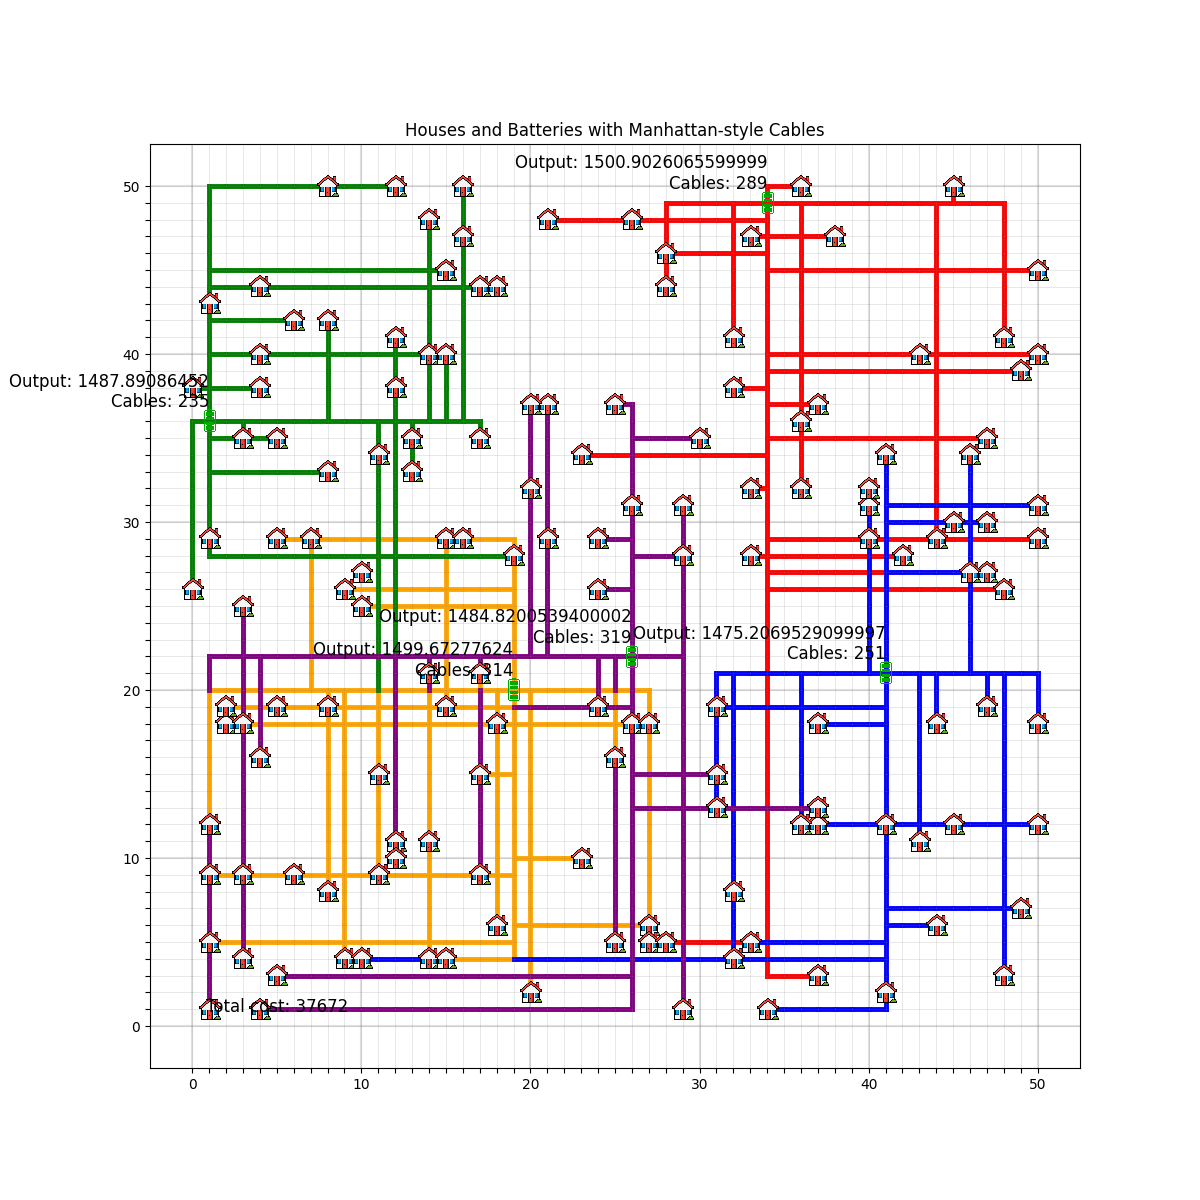
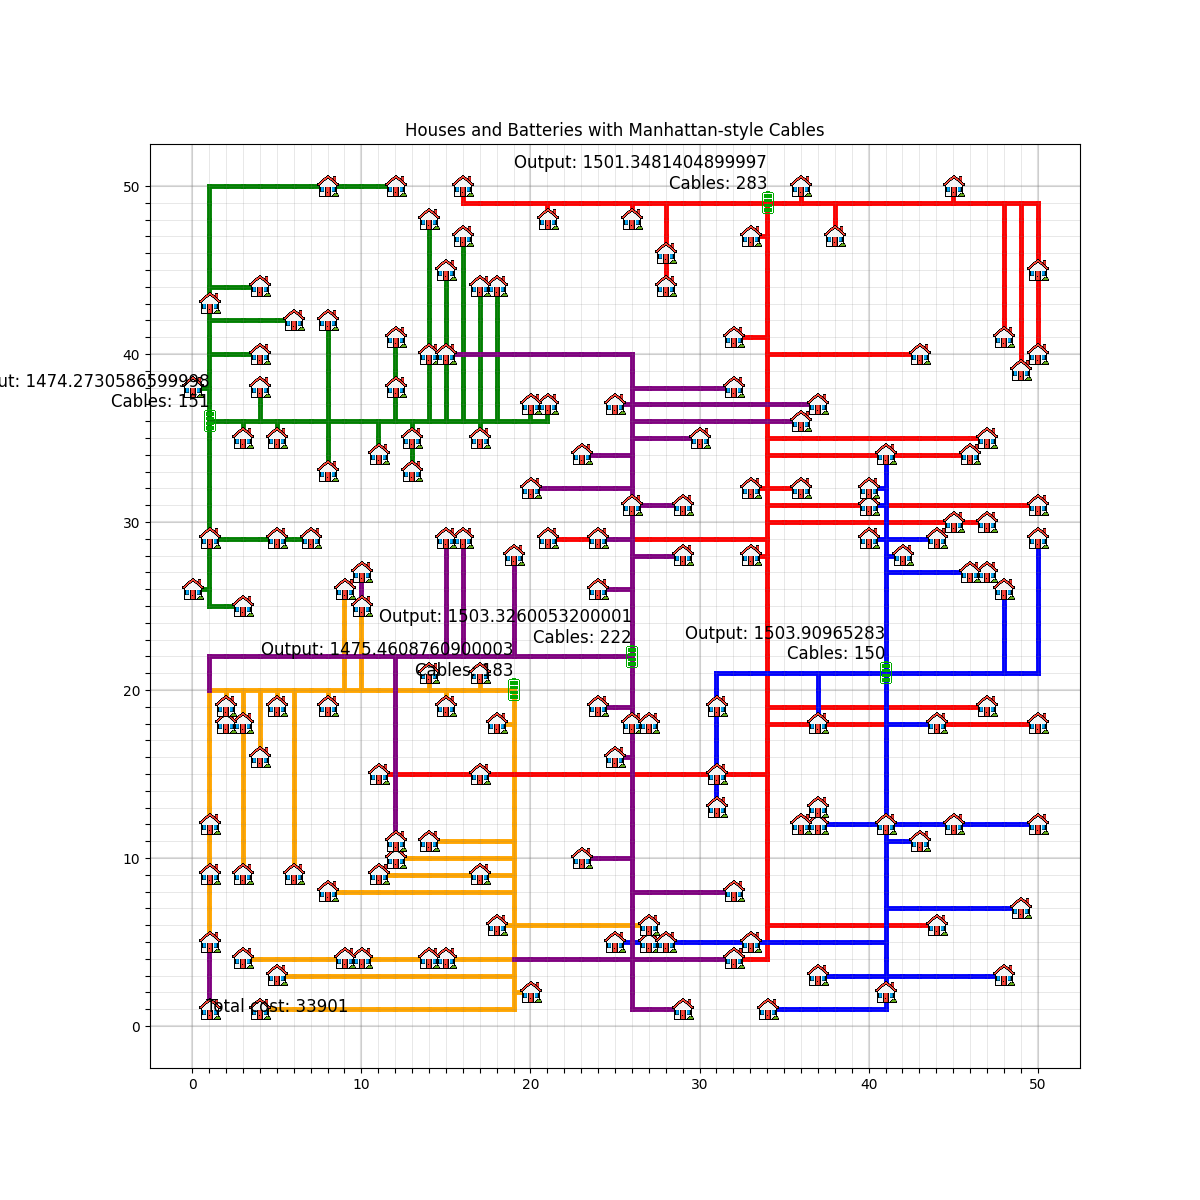
Changes and new main.py

Changed region(s): [[0.0, 0.1233, 0.8942, 0.8633], [0.185, 0.2158, 0.37, 0.2467], [0.2467, 0.2775, 0.3392, 0.3083]]

diff --git a/code/experiments/experiment1.py b/code/experiments/experiment1.py
@@ -10,24 +10,27 @@ from code.algorithm.nearest_object_y import nearest_object_y
 from code.algorithm.nearest_object_rand import nearest_object_rand
 
 
-def experiment(houses_file, batteries_file, iterations=100,algorithms=[RandomAlgorithm, nearest_battery, nearest_object_x, nearest_object_y, nearest_object_rand, dijckstra]):
+def find_lowest_cost_experiment(houses_file, batteries_file, iterations=100,algorithms=[dijckstra]):
     """
     the experiment function runs the simulation for each algorithm and saves the results in a csv file and plots a histogram of the resultings costs
     the input is the filepaths of the houses and batteries, the amount of iterations and the algorithms to be tested
     """
-    i = 1
+    count = 1
 
     save_directory = "data/simulation_results"
+
     data_to_plot = []
+
+    # If the directory does not exist, create it
     if not os.path.exists(save_directory):
         os.makedirs(save_directory)
 
-    # Create instances for each algorith
+    # Create instances for each algorithm
     for i in range(len(algorithms)):
 
         alg = algorithms[i]
 
-        print(f"{i}/{len(algorithms)}: Running {alg.__name__} Simulation")
+        print(f"{count}/{len(algorithms)}: Running {alg.__name__} Simulation")
         
         # Create instances for each algorithm
         algorithm_instance = Simulate_Algorithm(alg, iterations, houses_file, batteries_file)
@@ -38,12 +41,11 @@ def experiment(houses_file, batteries_file, iterations=100,algorithms=[RandomAlg
         print("")
 
         algorithm_instance.save_lowest_cost_house_order_to_csv(csv_filename)
-        i += 1
+        count += 1
 
         # Convert the sets of costs to lists
         sim_alg_list = list(sim_alg)
         data_to_plot.append(sim_alg_list)
-
 
     # Find the global minimum and maximum to set the bins
     min_value = min(map(min, data_to_plot))
@@ -62,8 +64,8 @@ def experiment(houses_file, batteries_file, iterations=100,algorithms=[RandomAlg
     colors = plt.cm.tab10(np.linspace(0, 1, 10))
 
     # Plot each algorithm's histogram
-    labels = [str(alg) for alg in algorithms]
-    
+    labels = [str(alg.__name__) for alg in algorithms]
+
     for i, (data, label) in enumerate(zip(data_to_plot, labels)):
         plt.hist(data, bins=bins, alpha=0.5, color=colors[i], label=label)
 

diff --git a/main.py b/main.py
@@ -15,7 +15,7 @@ from code.helpers.visualize import visualize
 from code.algorithm.nearest_battery import nearest_battery
 from code.algorithm.dijckstra import dijckstra
 from code.experiments.experiment2 import experiment2
-from code.experiments.experiment1 import experiment
+from code.experiments.experiment1 import find_lowest_cost_experiment
 
 
 #Creators: Team YakuzAI
@@ -33,7 +33,7 @@ def main():
         print(f'District {i+1}')
 
         # set up experiment To test all algorithms
-        experiment(districts_houses[i], districts_batteries[i], iterations, algorithms=[dijckstra, nearest_battery])    
+        find_lowest_cost_experiment(districts_houses[i], districts_batteries[i], iterations, algorithms=[dijckstra])    
 
 
         #experiment2(districts_houses[i], districts_batteries[i], iterations, algorithms=[dijckstra])
